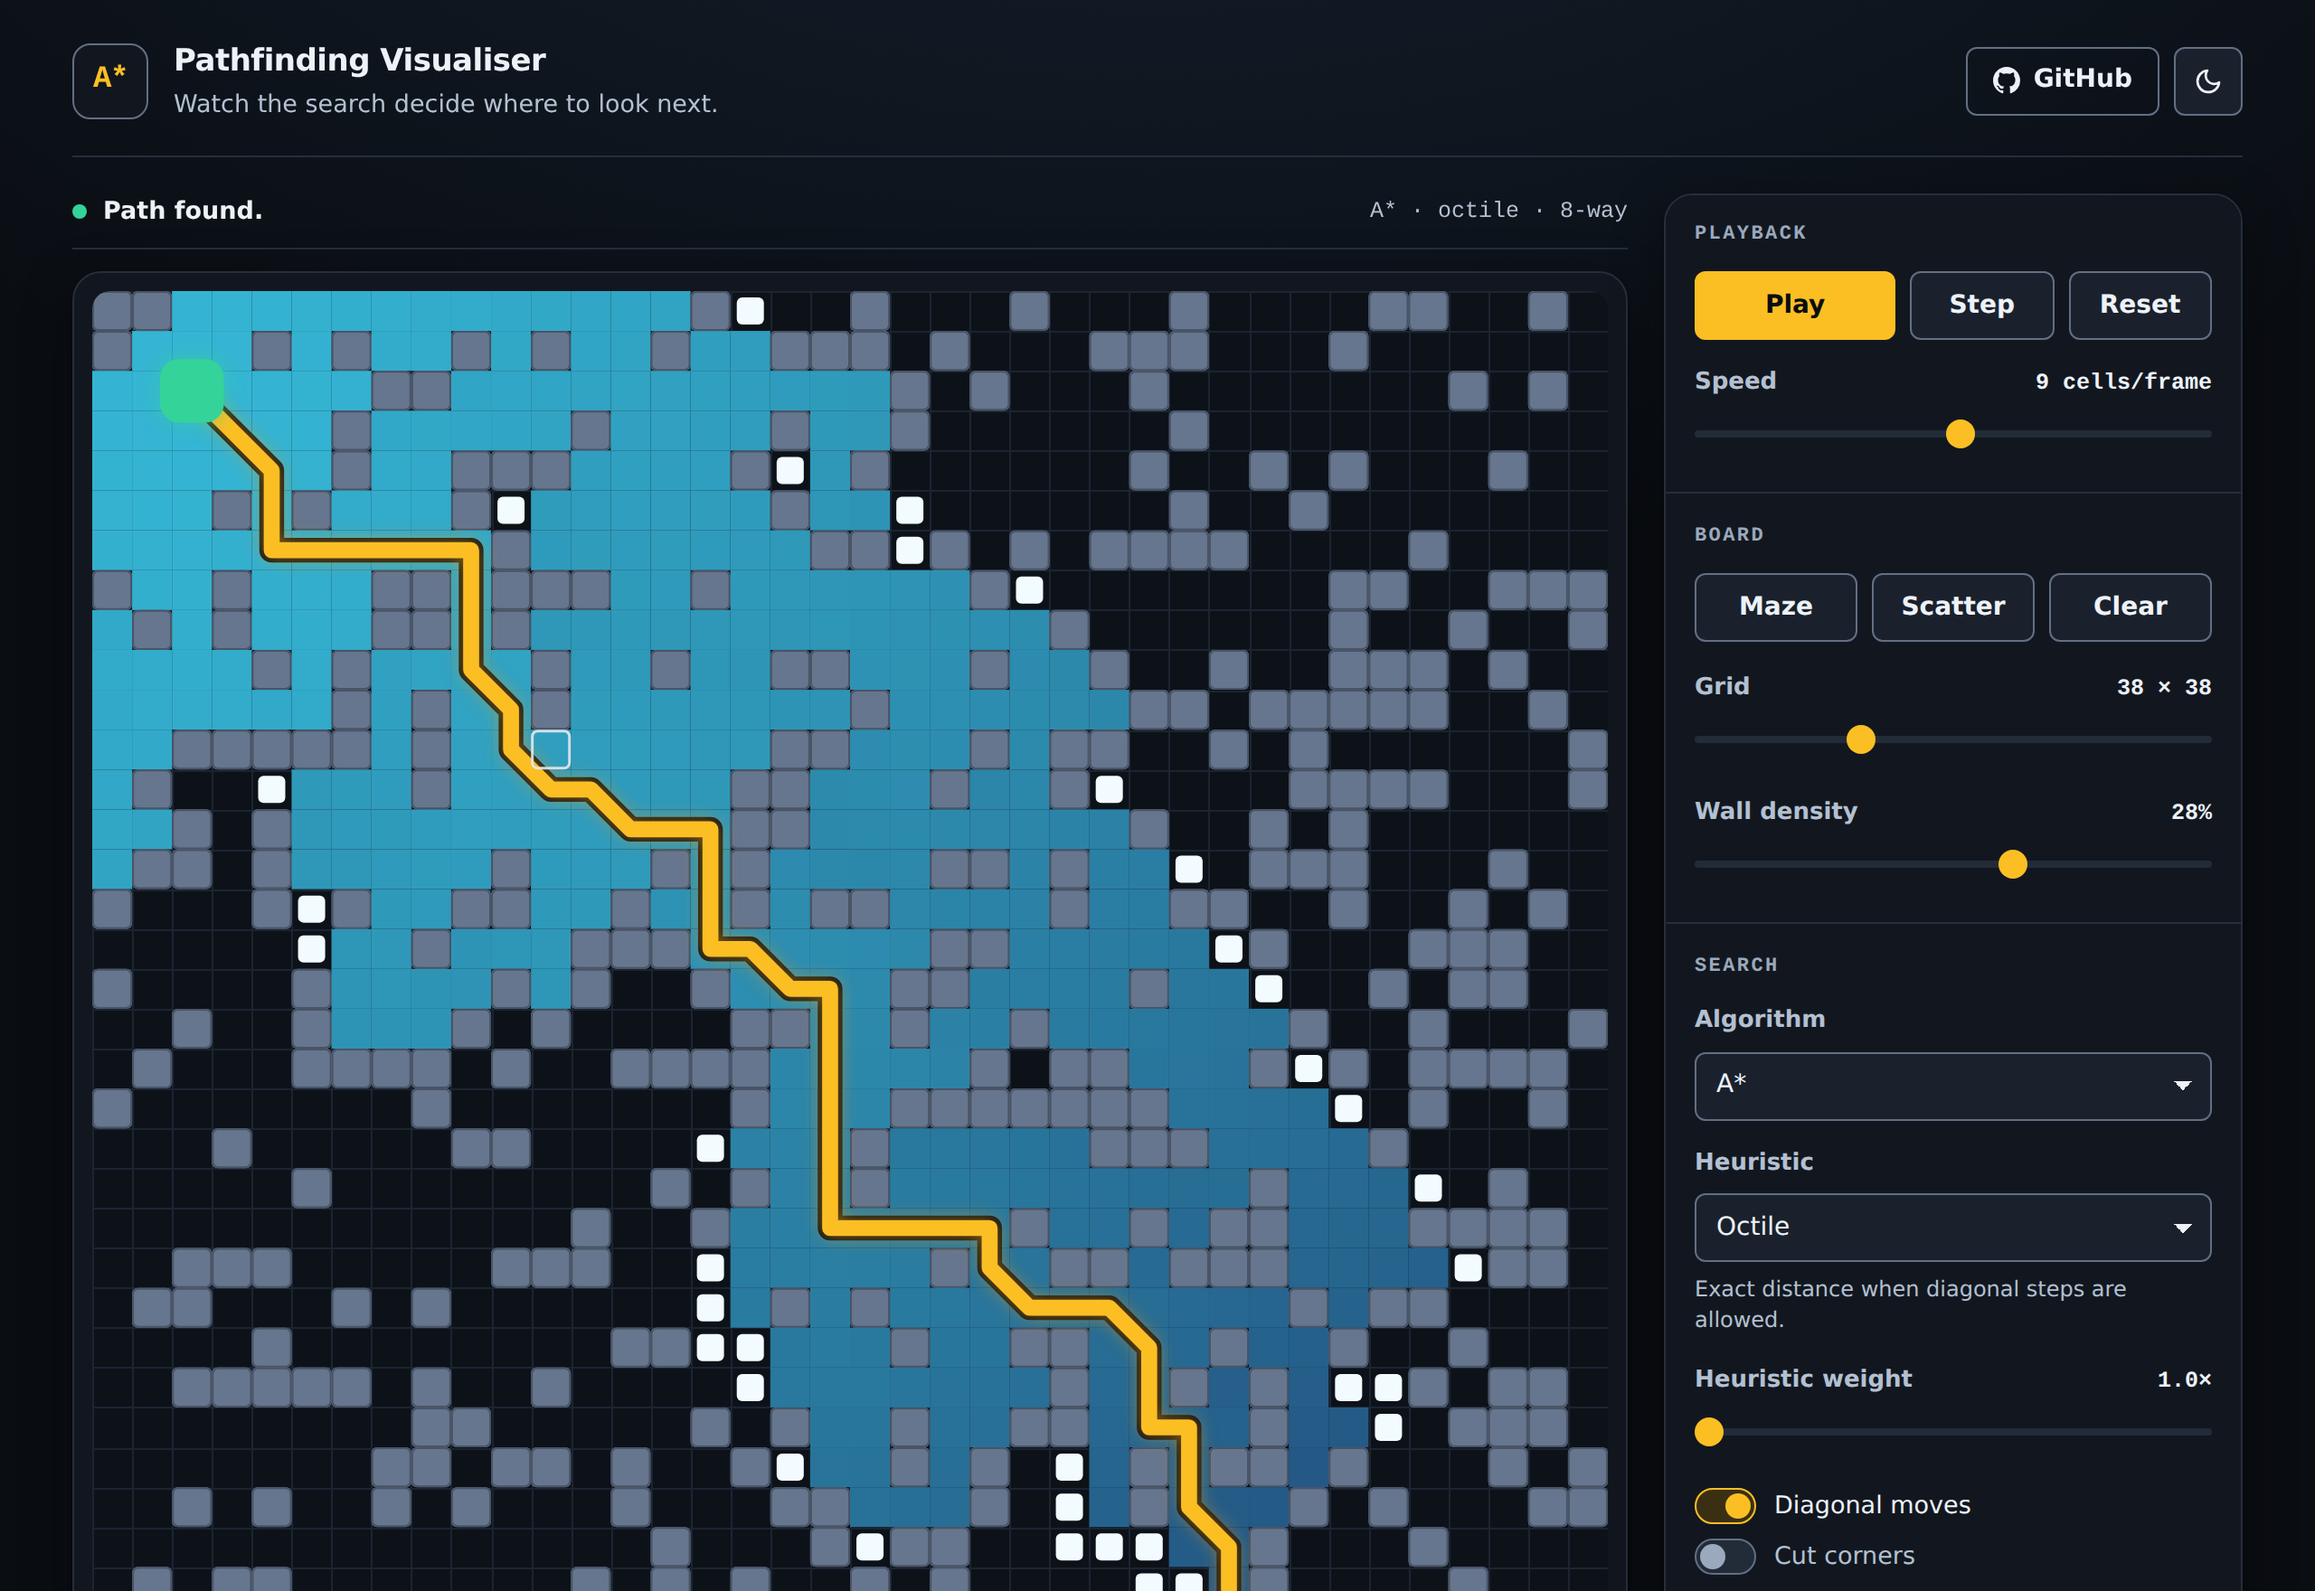
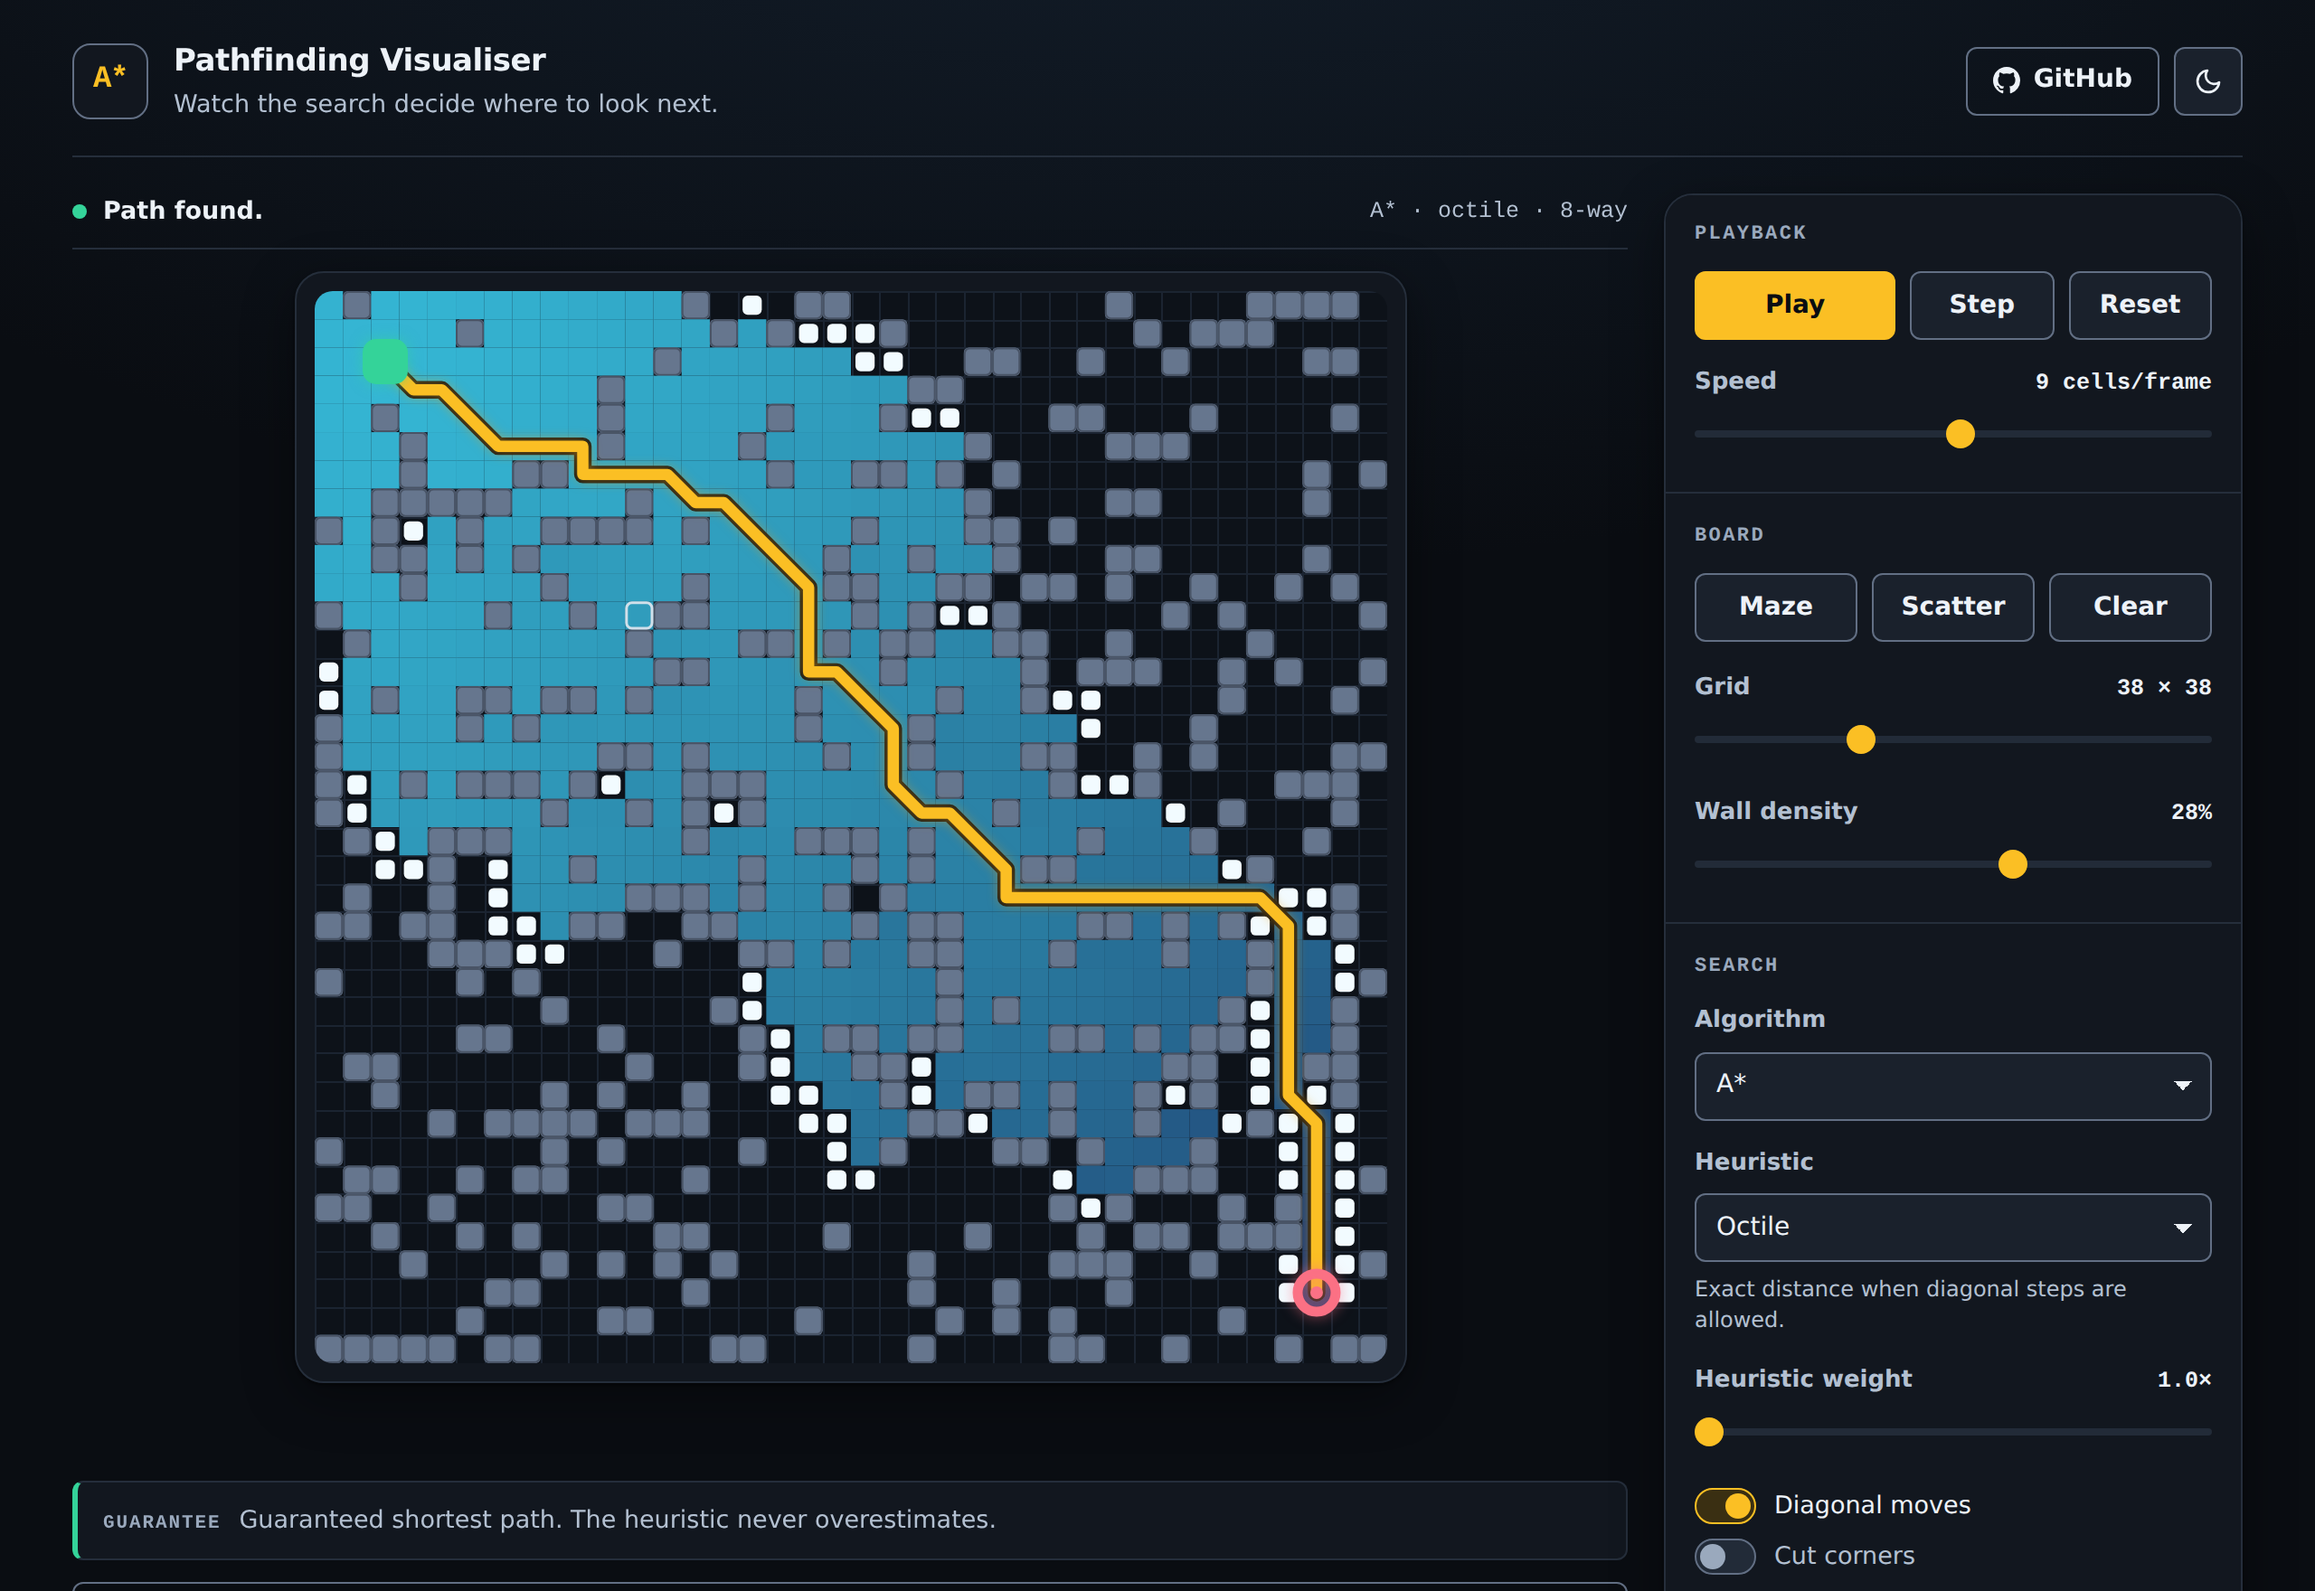
Make the interface work on a phone, not merely survive one
It already stacked at narrow widths and never overflowed horizontally, but
auditing it under touch emulation on six device shapes showed that is not the
same as being usable with a finger.

What was actually wrong:
- Every interactive element was under the 44px touch target: buttons 38px,
  sliders 22px, legend rows 36px, footer links 15px.
- The heuristic and algorithm selects were 14px, so iOS Safari zooms the whole
  page the moment you tap one — which throws the board off screen and cannot be
  undone without a pinch.
- Play sat below the fold on an iPhone SE, a small Android, a landscape phone
  and an iPad, because the guarantee and probe read-outs came between the board
  and the controls.
- The probe read "Hover the board" on devices that have no hover, and a tap
  never populated it.
- The masthead wrapped onto two rows, costing ~80px at the top of every screen.
- A landscape phone stacked into one column, wasting the width it does have.

Changes:
- A pointer:coarse block takes every control to at least 44x44 and form
  controls to 16px.
- The read-outs moved out of the stage into their own grid area, so a narrow
  layout can order controls ahead of them. Play is now on the first screen of
  every device tested, down to 320px.
- Touch drives the cell read-out: the tap itself fills it, and lifting a finger
  no longer blanks it.
- The masthead stays on one row on small screens, with the GitHub link going
[…]

diff --git a/assets/css/app.css b/assets/css/app.css
@@ -335,6 +335,9 @@ kbd {
 .workspace {
   display: grid;
   grid-template-columns: minmax(0, 1fr) var(--panel-width);
+  grid-template-areas:
+    "stage panel"
+    "readouts panel";
   gap: var(--gap);
   align-items: start;
   max-width: 1400px;
@@ -342,15 +345,37 @@ kbd {
   padding-block: var(--gap);
 }
 
-@media (max-width: 960px) {
+.stage {
+  grid-area: stage;
+}
+
+.readouts {
+  grid-area: readouts;
+}
+
+.panel {
+  grid-area: panel;
+}
+
+/* Below this the panel cannot sit beside the board and still leave it usable.
+   A landscape phone is wider than this, so it keeps the two-column layout —
+   stacking there would waste the width it does have. */
+@media (max-width: 840px) {
   .workspace {
     grid-template-columns: minmax(0, 1fr);
+    /* Controls come before the read-outs on a narrow screen: Play should be
+       reachable without scrolling past a paragraph about optimality. */
+    grid-template-areas:
+      "stage"
+      "panel"
+      "readouts";
   }
 }
 
 /* ------------------------------------------------------------------ stage */
 
-.stage {
+.stage,
+.readouts {
   display: flex;
   flex-direction: column;
   gap: 12px;
@@ -424,8 +449,12 @@ kbd {
   width: 100%;
   /* The board is square, so on a wide-but-short window "full width" would make
      it taller than the viewport and push its own bottom edge off screen. Cap it
-     against the height left over after the surrounding chrome, and centre it. */
+     against the height left over after the surrounding chrome, and centre it.
+     svh is the *small* viewport height — the one that excludes a mobile
+     browser's retractable toolbars — so the board does not resize as the URL
+     bar slides away mid-scroll. */
   max-width: max(260px, min(100%, calc(100vh - 265px)));
+  max-width: max(260px, min(100%, calc(100svh - 265px)));
   margin-inline: auto;
   padding: 10px;
   border: 1px solid var(--line);
@@ -964,13 +993,61 @@ kbd {
 
 /* ------------------------------------------------------------ small print */
 
+@media (max-width: 700px) {
+  /* Twelve single-file rows of keyboard shortcuts is a lot of scrolling on a
+     phone. Two narrow columns halves it without hiding anything. */
+  .keys {
+    grid-template-columns: repeat(auto-fill, minmax(148px, 1fr));
+    gap: 6px 10px;
+  }
+
+  .keys li {
+    font-size: 12px;
+  }
+
+  kbd {
+    min-width: 34px;
+  }
+}
+
 @media (max-width: 560px) {
+  /* Keep the masthead on one row. Left to wrap it costs ~80px at the top of
+     every screen, which on a phone is the difference between the controls
+     being visible under the board and not. */
   .masthead {
-    padding-block: 16px 14px;
+    flex-wrap: nowrap;
+    gap: 10px;
+    padding-block: 14px 12px;
+  }
+
+  .glyph {
+    width: 34px;
+    height: 34px;
+    font-size: 14px;
+  }
+
+  .masthead__titles h1 {
+    font-size: 15px;
   }
 
   .masthead__titles p {
     display: none;
+  }
+
+  /* The GitHub link becomes icon-only, but its name has to survive for screen
+     readers — so the label is clipped, not display:none'd. */
+  .masthead .button--ghost {
+    min-width: 44px;
+    padding-inline: 12px;
+  }
+
+  .masthead .button--ghost .button__label {
+    position: absolute;
+    width: 1px;
+    height: 1px;
+    overflow: hidden;
+    clip-path: inset(50%);
+    white-space: nowrap;
   }
 
   .transport {
@@ -987,6 +1064,83 @@ kbd {
 
   .legend__note {
     display: none;
+  }
+}
+
+/* --------------------------------------------------------------- touch input
+
+   A finger is not a mouse pointer. Everything interactive gets a 44px target,
+   and form controls go to 16px because iOS Safari zooms the whole page when
+   you focus anything smaller — which on this layout throws the board off
+   screen and cannot be undone without a pinch. */
+
+@media (pointer: coarse) {
+  .button {
+    min-height: 44px;
+  }
+
+  .button--icon {
+    width: 44px;
+  }
+
+  select {
+    min-height: 44px;
+    font-size: 16px;
+  }
+
+  input[type="range"] {
+    height: 44px;
+  }
+
+  input[type="range"]::-webkit-slider-thumb {
+    width: 22px;
+    height: 22px;
+    margin-top: -9px;
+  }
+
+  input[type="range"]::-moz-range-thumb {
+    width: 22px;
+    height: 22px;
+  }
+
+  .switch {
+    min-height: 44px;
+  }
+
+  .switch__track {
+    width: 42px;
+    height: 26px;
+  }
+
+  .switch__track::after {
+    width: 20px;
+  }
+
+  .switch input:checked + .switch__track::after {
+    transform: translateX(16px);
+  }
+
+  .legend button {
+    min-height: 44px;
+  }
+
+  /* Inline links in running text are the easiest thing to miss: give them a
+     real box without disturbing the line height around them. */
+  .colophon a,
+  .field__hint a {
+    display: inline-block;
+    min-height: 44px;
+    padding-block: 12px;
+  }
+
+  .skip-link {
+    min-height: 44px;
+    display: grid;
+    place-items: center;
+  }
+
+  .stat {
+    padding: 10px 11px;
   }
 }
 

diff --git a/src/app.js b/src/app.js
@@ -16,6 +16,8 @@ const state = {
   stepCredit: 0,
   finishedAt: 0,
   hoverIndex: -1,
+  /** True while the board is being driven by a finger rather than a mouse. */
+  touching: false,
   /** Separate from the pointer: the cell the keyboard is pointing at. */
   cursorIndex: -1,
   pointer: null,
@@ -271,7 +273,7 @@ function syncProbe(index = state.hoverIndex !== -1 ? state.hoverIndex : state.cu
 
   if (index === -1 || !search) {
     ui.probe.dataset.active = 'false';
-    ui.probeCell.textContent = 'Hover the board';
+    ui.probeCell.textContent = 'Point at a cell';
     ui.probeG.textContent = ui.probeH.textContent = ui.probeF.textContent = '—';
     return;
   }
@@ -367,6 +369,11 @@ function forEachCellBetween(from, to, visit) {
 function onPointerDown(event) {
   const index = pointerCell(event);
   if (index === -1) return;
+
+  // A touch has no hover phase, so the tap itself is what fills the read-out.
+  state.hoverIndex = index;
+  state.touching = event.pointerType === 'touch';
+  syncProbe();
 
   ui.board.setPointerCapture(event.pointerId);
 
@@ -596,6 +603,9 @@ function bindControls() {
   ui.board.addEventListener('pointerup', onPointerUp);
   ui.board.addEventListener('pointercancel', onPointerUp);
   ui.board.addEventListener('pointerleave', () => {
+    // Lifting a finger fires pointerleave too. Clearing then would blank the
+    // read-out the instant it became useful, so touch keeps its last cell.
+    if (state.touching) return;
     state.hoverIndex = -1;
     syncProbe();
   });

diff --git a/index.html b/index.html
@@ -109,13 +109,18 @@
           ></canvas>
         </div>
 
+      </section>
+
+      <!-- Sits under the board on a desktop, but below the controls on a phone,
+           so that Play is reachable without scrolling past the read-outs. -->
+      <section class="readouts" aria-label="Search read-out">
         <p class="guarantee" id="guarantee" data-optimal="true">
           <span class="guarantee__tag" aria-hidden="true">Guarantee</span>
           <span id="guaranteeText"></span>
         </p>
 
         <div class="probe" id="probe" data-active="false">
-          <span class="probe__cell" id="probeCell">Hover the board</span>
+          <span class="probe__cell" id="probeCell">Point at a cell</span>
           <span class="probe__sum" aria-hidden="true">
             <span class="probe__term probe__term--g"><i>g</i> <b id="probeG">—</b></span>
             <span class="probe__op">+</span>
@@ -123,7 +128,6 @@
             <span class="probe__op">=</span>
             <span class="probe__term probe__term--f"><i>f</i> <b id="probeF">—</b></span>
           </span>
-          <span class="visually-hidden" id="probeSpoken"></span>
         </div>
       </section>
 

diff --git a/README.md b/README.md
@@ -53,6 +53,8 @@ import. If you want a pathfinder for real work, use a real one — but if you wa
 - **Use it without a mouse.** Focus the board and the arrow keys move a cell cursor;
   <kbd>Enter</kbd> toggles a wall, <kbd>1</kbd> and <kbd>2</kbd> drop the start and goal.
   State changes are announced to screen readers.
+- **Use it on a phone.** Drawing, dragging the markers and inspecting a cell all work
+  by touch, and the layout is built for a small screen rather than merely surviving one.
 
 <img src="assets/img/interface-dark.png" alt="The visualiser interface: the board on the left showing a completed search, with playback, board and search controls on the right." width="100%">
 
@@ -65,6 +67,22 @@ The canvas reads its colours from the same CSS custom properties as the rest of
 the page, so the two themes are one stylesheet rather than two. The wake runs
 the opposite way on white — palest at the start, deepening outward — because a
 wake that faded out as it spread would lose its own edge against the page.
+
+</details>
+
+<details>
+<summary>And it is built for a phone, not just shrunk to fit one</summary>
+
+<img src="assets/img/interface-mobile.png" alt="The visualiser on a phone: a single-row header, the board, and the full playback controls all visible without scrolling." width="320">
+
+The board and the whole transport fit on the first screen of a 320px-wide
+phone. On a narrow layout the controls are ordered ahead of the read-outs, so
+Play is reachable without scrolling past a paragraph about optimality. Every
+control is at least a 44×44px target, form controls are 16px so that iOS
+Safari does not zoom the page when you tap one, and the board's `f = g + h`
+read-out responds to a tap since there is no hover to respond to. A landscape
+phone keeps the two-column layout rather than stacking, because stacking would
+waste the width it does have.
 
 </details>
 
